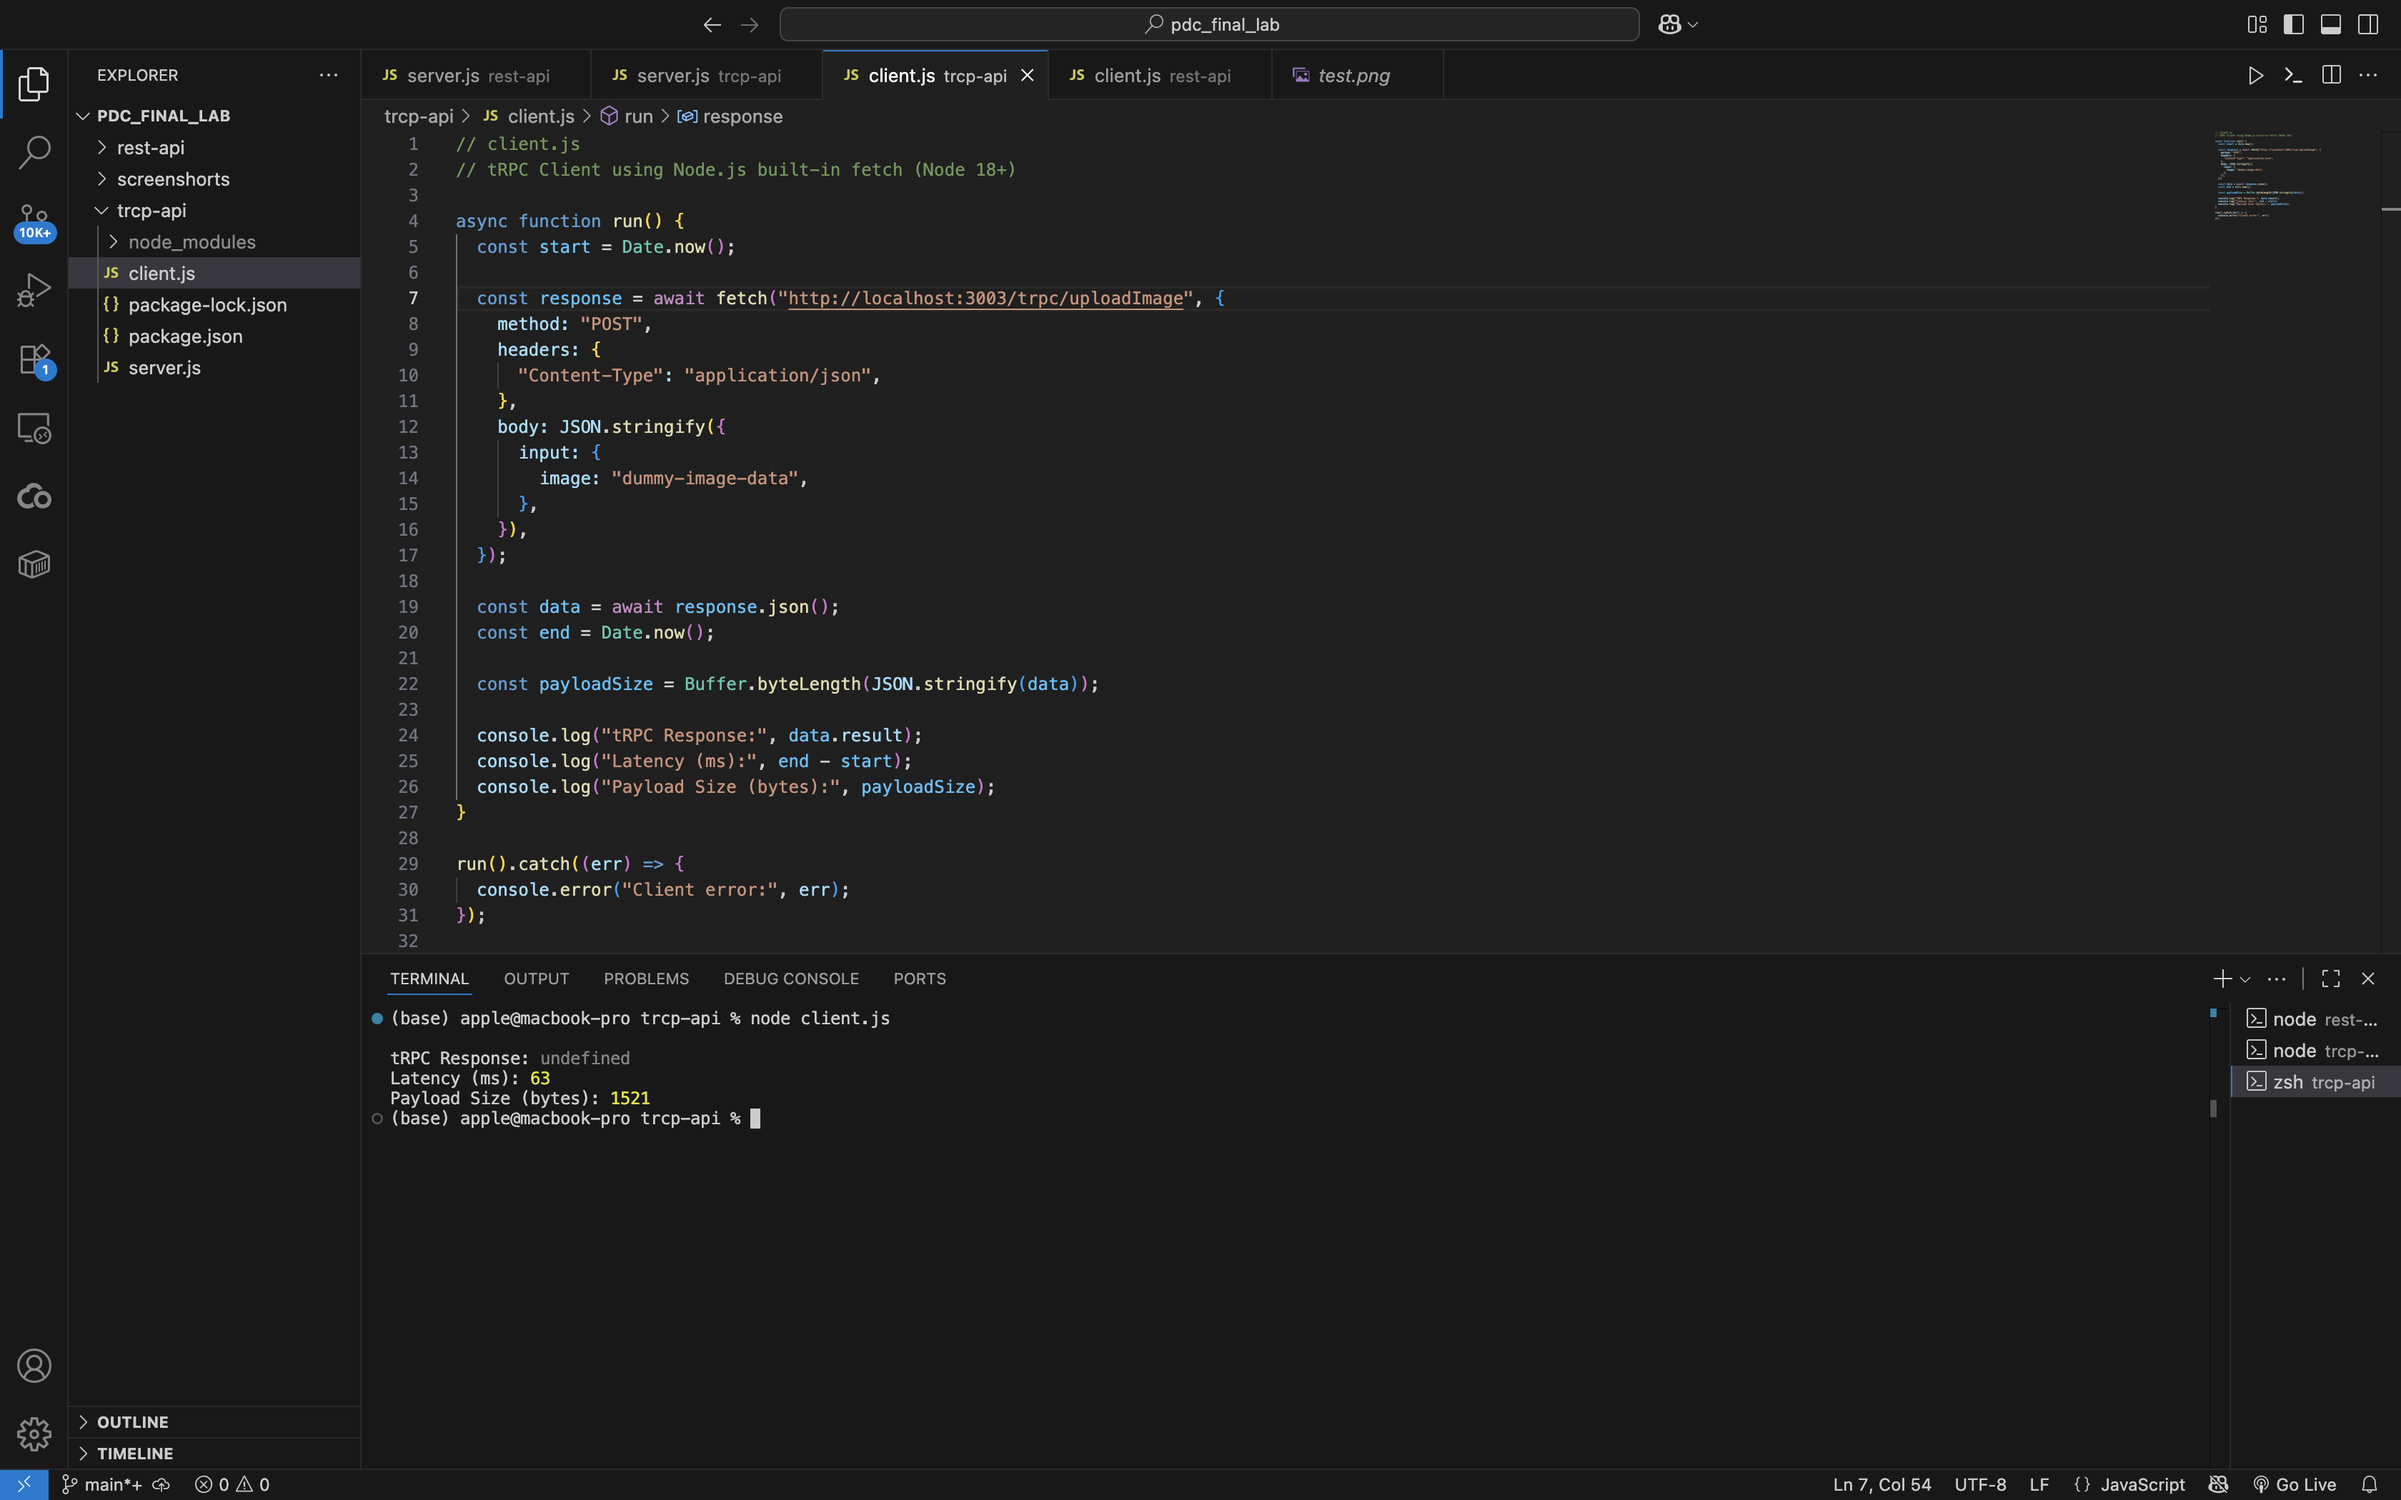
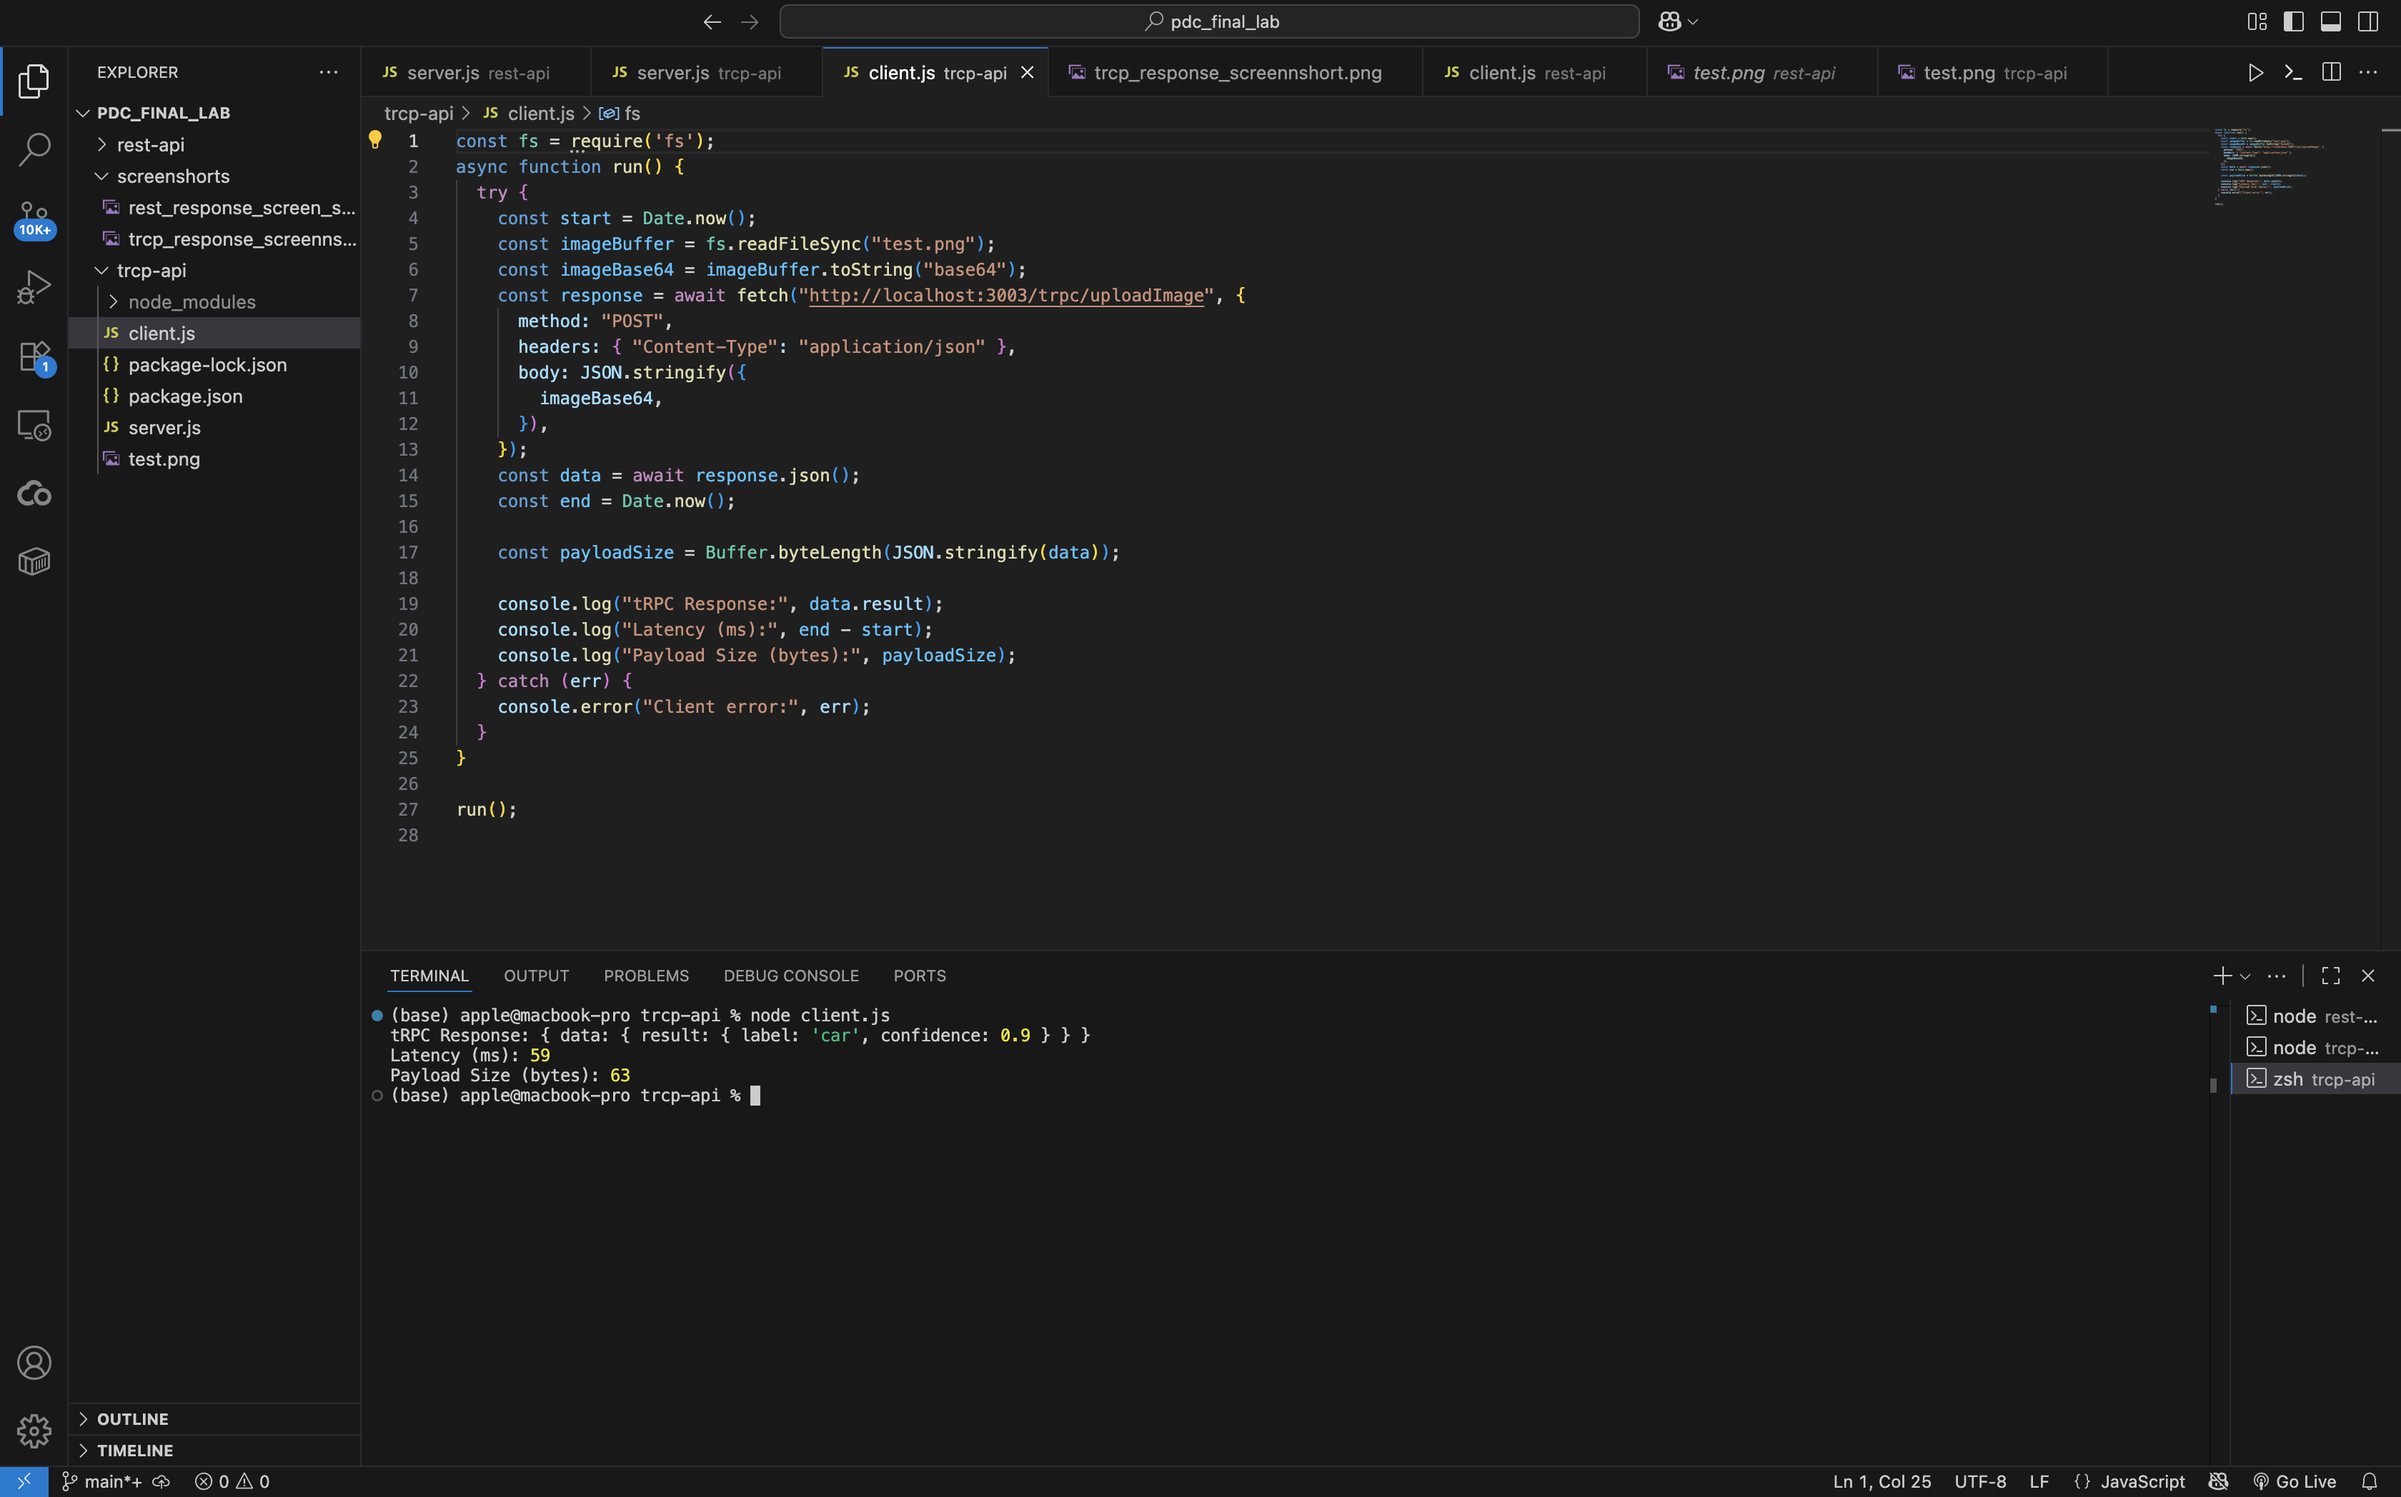
trcp api

diff --git a/trcp-api/client.js b/trcp-api/client.js
@@ -1,31 +1,27 @@
-// client.js
-// tRPC Client using Node.js built-in fetch (Node 18+)
-
+const fs = require('fs');
 async function run() {
-  const start = Date.now();
+  try {
+    const start = Date.now();
+    const imageBuffer = fs.readFileSync("test.png");
+    const imageBase64 = imageBuffer.toString("base64");
+    const response = await fetch("http://localhost:3003/trpc/uploadImage", {
+      method: "POST",
+      headers: { "Content-Type": "application/json" },
+      body: JSON.stringify({
+        imageBase64,
+      }),
+    });
+    const data = await response.json();
+    const end = Date.now();
 
-  const response = await fetch("http://localhost:3003/trpc/uploadImage", {
-    method: "POST",
-    headers: {
-      "Content-Type": "application/json",
-    },
-    body: JSON.stringify({
-      input: {
-        image: "dummy-image-data",
-      },
-    }),
-  });
+    const payloadSize = Buffer.byteLength(JSON.stringify(data));
 
-  const data = await response.json();
-  const end = Date.now();
-
-  const payloadSize = Buffer.byteLength(JSON.stringify(data));
-
-  console.log("tRPC Response:", data.result);
-  console.log("Latency (ms):", end - start);
-  console.log("Payload Size (bytes):", payloadSize);
+    console.log("tRPC Response:", data.result);
+    console.log("Latency (ms):", end - start);
+    console.log("Payload Size (bytes):", payloadSize);
+  } catch (err) {
+    console.error("Client error:", err);
+  }
 }
 
-run().catch((err) => {
-  console.error("Client error:", err);
-});
+run();

diff --git a/trcp-api/server.js b/trcp-api/server.js
@@ -1,3 +1,4 @@
+// server.js
 const express = require("express");
 const { initTRPC } = require("@trpc/server");
 const { createExpressMiddleware } = require("@trpc/server/adapters/express");
@@ -11,7 +12,7 @@ function classifyImage() {
   const labels = ["cat", "dog", "car", "person"];
   return {
     label: labels[Math.floor(Math.random() * labels.length)],
-    confidence: Math.random().toFixed(2),
+    confidence: parseFloat(Math.random().toFixed(2)),
   };
 }
 
@@ -23,13 +24,17 @@ const appRouter = t.router({
         imageBase64: z.string(),
       })
     )
-    .mutation(() => {
-      return classifyImage();
+    .mutation(({ input }) => {
+      // Here you can use input.imageBase64 for actual AI inference
+      const result = classifyImage();
+      return { result };
     }),
 });
 
-// Express app
 const app = express();
+
+// JSON middleware (needed for fetch JSON requests)
+app.use(express.json());
 
 app.use(
   "/trpc",
@@ -42,5 +47,4 @@ app.listen(3003, () => {
   console.log("tRPC server running at http://localhost:3003/trpc");
 });
 
-// Export type (not used in JS, but required internally)
 module.exports = { appRouter };
